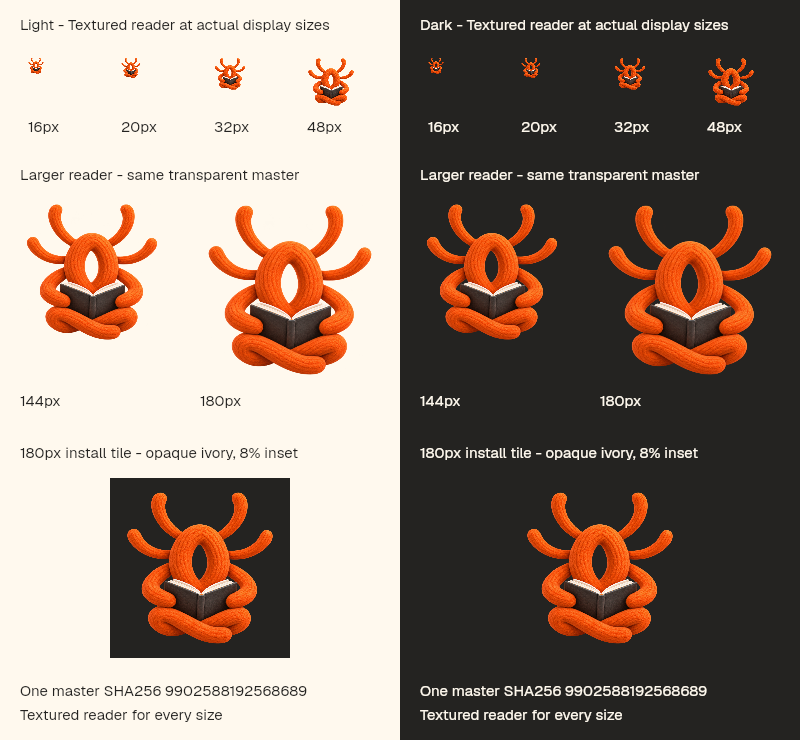
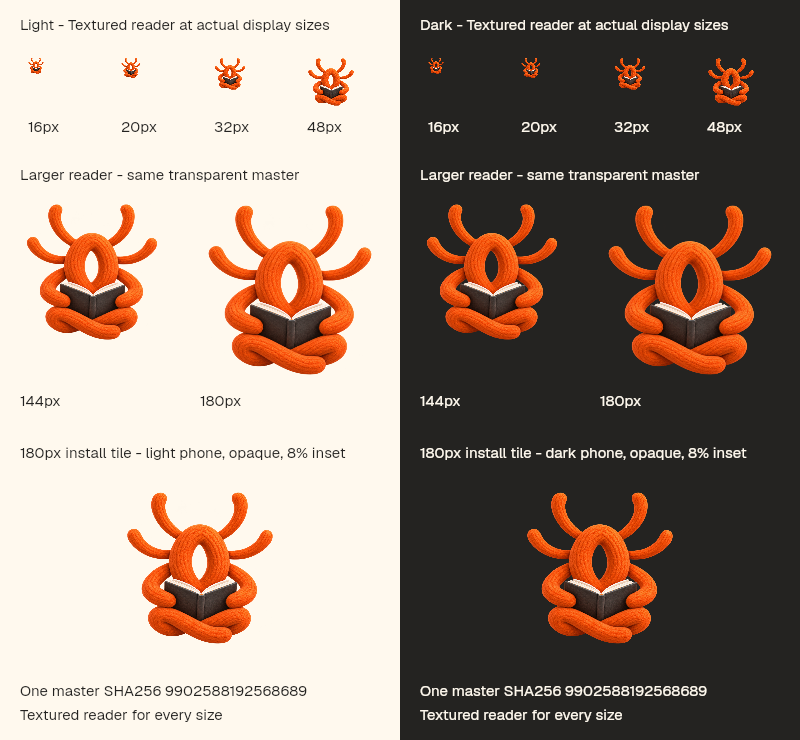
261026i: Sol's code review, and spya-shpsvx/q-q5da5a answered and shipped
Sol fixed the brand proofs, which drew the now-charcoal touch icon on both
sides; each side shows its own tile. q-q5da5a quotes Greg's reply
(spya-e50wvz), status answered; the shpsvx note ends shipped, with how to
re-add the icon to see it.

Changed region(s): [[0.125, 0.5905, 0.4375, 0.9014], [0.6875, 0.5905, 0.9375, 0.6216]]

diff --git a/scripts/generate-brand-assets.ts b/scripts/generate-brand-assets.ts
@@ -123,12 +123,12 @@ async function renderPreview(input: Source, files: Map<string, Buffer>): Promise
   const ctx = canvas.getContext("2d");
   const detail = await proofImage(files, "spideryarn-reader.png");
   const mark = await proofImage(files, "spideryarn-logo.png");
-  const install = await proofImage(files, "apple-touch-icon.png");
   ctx.imageSmoothingQuality = "high";
   ctx.font = "15px SpideryarnBrandPreview";
   for (const [left, background, foreground, label] of [
     [0, LIGHT, DARK, "Light"], [400, DARK, LIGHT, "Dark"],
   ] as const) {
+    const install = await proofImage(files, label === "Light" ? "apple-touch-icon-light.png" : "apple-touch-icon.png");
     ctx.fillStyle = background;
     ctx.fillRect(left, 0, 400, 740);
     ctx.fillStyle = foreground;
@@ -147,7 +147,7 @@ async function renderPreview(input: Source, files: Map<string, Buffer>): Promise
       ctx.drawImage(detail, x, 200, size, size);
       ctx.fillText(`${size}px`, x, 406);
     }
-    ctx.fillText("180px install tile - opaque ivory, 8% inset", left + 20, 458);
+    ctx.fillText(`180px install tile - ${label.toLowerCase()} phone, opaque, 8% inset`, left + 20, 458);
     ctx.imageSmoothingEnabled = false;
     ctx.drawImage(install, left + 110, 478);
     ctx.fillText(`One master SHA256 ${input.hash}`, left + 20, 696);
@@ -160,11 +160,11 @@ async function renderTinyPreview(files: Map<string, Buffer>): Promise<Buffer> {
   const canvas = proofCanvas(920, 740);
   const ctx = canvas.getContext("2d");
   const mark = await proofImage(files, "spideryarn-logo.png");
-  const install = await proofImage(files, "apple-touch-icon.png");
   const favicon16 = await proofImage(files, "favicon-16x16.png");
   for (const [left, background, foreground, label] of [
     [0, LIGHT, DARK, "LIGHT"], [460, DARK, LIGHT, "DARK"],
   ] as const) {
+    const install = await proofImage(files, label === "LIGHT" ? "apple-touch-icon-light.png" : "apple-touch-icon.png");
     ctx.fillStyle = background;
     ctx.fillRect(left, 0, 460, 740);
     ctx.fillStyle = foreground;
@@ -209,6 +209,7 @@ async function renderTinyPreview(files: Map<string, Buffer>): Promise<Buffer> {
 /** Use the committed public files directly: opening or serving this page
  * exercises browser favicon selection rather than drawing a pretend tab. */
 function renderBrowserPreview(): string {
+  const install = (theme: string) => theme === "light" ? "apple-touch-icon-light.png" : "apple-touch-icon.png";
   const sample = (theme: string) => `<section class="${theme}"><h2>${theme} background</h2>
     <p>16 logical pixels, 1× / 2× source selection:</p>
     <img width="16" height="16" src="../../public/favicon-16x16.png" srcset="../../public/favicon-16x16.png 1x, ../../public/favicon-32x32.png 2x" alt="Reader favicon at 16 logical pixels">
@@ -216,7 +217,7 @@ function renderBrowserPreview(): string {
     ${[16, 32, 48].map((size) => `<img width="${size}" height="${size}" src="../../public/favicon-${size}x${size}.png" alt="${size} pixel favicon">`).join(" ")}
     <p>Same reader in the app, at 20, 44 and 128 logical pixels:</p>
     ${[20, 44, 128].map((size) => `<img width="${size}" height="${size}" src="../../public/spideryarn-logo.png" alt="${size} pixel app reader">`).join(" ")}
-    <p>Install tile, 60 logical pixels — 84% artwork fill:</p><img width="60" height="60" src="../../public/apple-touch-icon.png" alt="Install tile"></section>`;
+    <p>Install tile for a ${theme} phone, 60 logical pixels — 84% artwork fill:</p><img width="60" height="60" src="../../public/${install(theme)}" alt="Install tile for a ${theme} phone"></section>`;
   return `<!doctype html>
 <html lang="en"><head><meta charset="utf-8"><meta name="viewport" content="width=device-width,initial-scale=1">
 <title>Spideryarn — selected reader tab preview</title>

diff --git a/assets/brand/browser-preview.html b/assets/brand/browser-preview.html
@@ -13,11 +13,11 @@
     <img width="16" height="16" src="../../public/favicon-16x16.png" alt="16 pixel favicon"> <img width="32" height="32" src="../../public/favicon-32x32.png" alt="32 pixel favicon"> <img width="48" height="48" src="../../public/favicon-48x48.png" alt="48 pixel favicon">
     <p>Same reader in the app, at 20, 44 and 128 logical pixels:</p>
     <img width="20" height="20" src="../../public/spideryarn-logo.png" alt="20 pixel app reader"> <img width="44" height="44" src="../../public/spideryarn-logo.png" alt="44 pixel app reader"> <img width="128" height="128" src="../../public/spideryarn-logo.png" alt="128 pixel app reader">
-    <p>Install tile, 60 logical pixels — 84% artwork fill:</p><img width="60" height="60" src="../../public/apple-touch-icon.png" alt="Install tile"></section><section class="dark"><h2>dark background</h2>
+    <p>Install tile for a light phone, 60 logical pixels — 84% artwork fill:</p><img width="60" height="60" src="../../public/apple-touch-icon-light.png" alt="Install tile for a light phone"></section><section class="dark"><h2>dark background</h2>
     <p>16 logical pixels, 1× / 2× source selection:</p>
     <img width="16" height="16" src="../../public/favicon-16x16.png" srcset="../../public/favicon-16x16.png 1x, ../../public/favicon-32x32.png 2x" alt="Reader favicon at 16 logical pixels">
     <p>Native source samples: 16, 32 and 48 image pixels:</p>
     <img width="16" height="16" src="../../public/favicon-16x16.png" alt="16 pixel favicon"> <img width="32" height="32" src="../../public/favicon-32x32.png" alt="32 pixel favicon"> <img width="48" height="48" src="../../public/favicon-48x48.png" alt="48 pixel favicon">
     <p>Same reader in the app, at 20, 44 and 128 logical pixels:</p>
     <img width="20" height="20" src="../../public/spideryarn-logo.png" alt="20 pixel app reader"> <img width="44" height="44" src="../../public/spideryarn-logo.png" alt="44 pixel app reader"> <img width="128" height="128" src="../../public/spideryarn-logo.png" alt="128 pixel app reader">
-    <p>Install tile, 60 logical pixels — 84% artwork fill:</p><img width="60" height="60" src="../../public/apple-touch-icon.png" alt="Install tile"></section></main></body></html>
+    <p>Install tile for a dark phone, 60 logical pixels — 84% artwork fill:</p><img width="60" height="60" src="../../public/apple-touch-icon.png" alt="Install tile for a dark phone"></section></main></body></html>

diff --git a/src/feedback-endings.generated.ts b/src/feedback-endings.generated.ts
@@ -485,7 +485,7 @@ export const FEEDBACK_NOTE_ENDINGS: Readonly<Record<string, FeedbackEnding>> = {
   "spya-sgf8g6": "shipped",
   "spya-sgfxuv": "shipped",
   "spya-shf45w": "shipped",
-  "spya-shpsvx": "awaiting",
+  "spya-shpsvx": "shipped",
   "spya-skpxw2": "awaiting",
   "spya-skq3fg": "shipped",
   "spya-skqwg8": "shipped",
@@ -858,7 +858,7 @@ export const FEEDBACK_NOTE_COMMENTS: Readonly<Record<string, string>> = {
   "spya-sbj3yk": "Both sentences now say what happened, and arXiv papers find their DOI, so Attention gets its Cited by list. Since 11 October a piece with no DOI is also looked up at OpenAlex by title and authors, strictly checked.",
   "spya-sfpcmm": "On dev. A chat (and Explore) reading another of the reader's conversations now gets each question and answer whole, up to 6,000 characters a turn, rather than cut to 700, and can page back through a long conversation to its first exchange.",
   "spya-shf45w": "On dev: Active days, Reading time and Failed imports columns, and five counts hidden behind Columns. Since your answer, Active days also counts each article opened, from now on.",
-  "spya-shpsvx": "It is the home-screen icon. iOS gives a website's home-screen icon no dark version, so one background has to serve both modes: dark for everyone, or keep ivory? Question q-q5da5a.",
+  "spya-shpsvx": "The home-screen icon now follows your phone's mode when added: charcoal in dark, cream in light, charcoal when unsure. After the next deploy, remove the icon and re-add it from Safari's Share menu to see it.",
   "spya-skpxw2": "Part built: type @ in Chat to bring in one of your articles, so an uploaded file can be brought in once it is an article. Attachments that belong to an article are still a question for you.",
   "spya-skq3fg": "\"Why are you reading this?\" is now at the top and grows; About you is offered if empty; a big green tick and Open at top and bottom say it is done; PDFs show a bar of sections read. Time-left is queued.",
   "spya-srg5fa": "The guide no longer opens a mode by itself: it suggests one with a button you press. Every chat's typing box is bigger and stands out more, and the suggestion buttons sit in the centre.",

diff --git a/tests/brand-assets.test.ts b/tests/brand-assets.test.ts
@@ -412,11 +412,19 @@ describe("brand assets", () => {
       expect(sample.getAttribute("srcset")).toBe("../../public/favicon-16x16.png 1x, ../../public/favicon-32x32.png 2x");
     }
     expect(doc.querySelectorAll("section.light img, section.dark img")).toHaveLength(16);
+    expect(doc.querySelector("section.light img:last-of-type")?.getAttribute("src"))
+      .toBe("../../public/apple-touch-icon-light.png");
+    expect(doc.querySelector("section.dark img:last-of-type")?.getAttribute("src"))
+      .toBe("../../public/apple-touch-icon.png");
     for (const image of doc.querySelectorAll("img")) {
       const relative = image.getAttribute("src");
       expect(relative).toMatch(/^\.\.\/\.\.\/public\/[\w-]+\.png$/);
       await expect(stat(path.join(ROOT, "assets/brand", relative ?? ""))).resolves.toBeDefined();
     }
+    const proof = await pixels(path.join(previewDir, "preview.png"));
+    const rgbaAt = (x: number, y: number) => [...proof.data.slice((y * proof.width + x) * 4, (y * proof.width + x + 1) * 4)];
+    expect(rgbaAt(110, 478)).toEqual([255, 249, 238, 255]);
+    expect(rgbaAt(510, 478)).toEqual([36, 35, 33, 255]);
   });
 
   it("does not create absent public/proof destinations in check mode", async () => {

diff --git a/docs/user-feedback/261026_0248-home-screen-icon-ivory-in-dark-mode.md b/docs/user-feedback/261026_0248-home-screen-icon-ivory-in-dark-mode.md
@@ -1,7 +1,7 @@
 ---
 reports: spya-shpsvx
-ending: awaiting
-comment: It is the home-screen icon. iOS gives a website's home-screen icon no dark version, so one background has to serve both modes: dark for everyone, or keep ivory? Question q-q5da5a.
+ending: shipped
+comment: The home-screen icon now follows your phone's mode when added: charcoal in dark, cream in light, charcoal when unsure. After the next deploy, remove the icon and re-add it from Safari's Share menu to see it.
 ---
 # The home-screen icon is ivory in dark mode
 
@@ -11,12 +11,16 @@ Report `spya-shpsvx` (#710, SPIDERYARN-READING2-P9), a problem from Greg on `/` 
 
 > I'm in dark mode on my iPhone, and for some reason the new Spideryarn icon still has a white background.
 
-**Awaiting Greg.** The white is almost certainly the home-screen tile, `apple-touch-icon.png`,
-the only icon we ship opaque (ivory, by design); the favicons and the in-page mark are transparent,
-checked on the files. That is inferred, not confirmed on his phone, and the question asks him to
-say if he meant somewhere else. iOS documents no dark variant for a web clip, so the background is
-a product choice: question `q-q5da5a`, offering dark for everyone (recommended), the mode at the
-moment the clip is added, or ivory as now. Sol reviewed the research and the question
+**Shipped** on `dev` (out with the next deploy), after Greg answered `q-q5da5a`
+(`spya-e50wvz`): *"Maybe we can try and offer a switch between light and dark mode, but if in
+doubt, default to dark mode for the icon"*. The touch icon is charcoal by default and an inline
+script swaps in a cream one when the phone is in light mode; the Android icons and the email logo,
+which cannot follow a mode, are charcoal —
+[261026i](../plans/261026i-home-screen-icon-follows-the-phone-mode-dark-by-default.md). Not checked
+on a real phone: Greg's remove-and-re-add is the test, in both modes. The white he saw was
+inferred to be the home-screen tile from the files and he did not say otherwise.
+
+The first pass (below) asked rather than built; Sol reviewed it
 ([its findings](../plans/261026e-home-screen-icon-dark-mode-review-sol.md)).
 
 - **The research and its sources** are in
@@ -24,9 +28,8 @@ moment the clip is added, or ivory as now. Sol reviewed the research and the que
 - **No cached old paths to clear.** No icon file has been renamed or deleted under `public/`, and
   production serves them with `max-age=0, must-revalidate` and an etag. What caches is iOS's
   snapshot of an installed clip, which changes only when the clip is removed and re-added.
-- **Built: nothing yet.** The same tile is the Android icon and the logo in the (dark) emails
-  (`src/email-frame.ts`), so a choice of dark changes those too unless split. The backgrounds are
-  the `background` column of `BRAND_OUTPUTS` in
-  [generate-brand-assets.ts](../../scripts/generate-brand-assets.ts), then `npm run brand:update`
-  and `brand:check`, and a `?v=` on the `apple-touch-icon` link in `index.html` for Safari's own
-  caches.
+- **Built, second pass**: the `background` column of `BRAND_OUTPUTS` in
+  [generate-brand-assets.ts](../../scripts/generate-brand-assets.ts) (touch and Android tiles
+  charcoal, a new cream `apple-touch-icon-light.png`), `touch-icon-boot` and a `?v=2` in
+  `index.html`, `tests/touch-icon.test.ts`. The emails name the same file, so their logo turned
+  charcoal with no change of their own.

diff --git a/docs/user-feedback/questions/q-q5da5a.md b/docs/user-feedback/questions/q-q5da5a.md
@@ -1,10 +1,11 @@
 ---
 id: q-q5da5a
 report: spya-shpsvx
-status: open
+status: answered
 asked: 2026-10-26
 title: Should the iPhone home-screen icon have a dark background?
-refs: SPIDERYARN-READING2-P9 · docs/project/main-icon.md § Dark mode on an iPhone · docs/user-feedback/261026_0248-home-screen-icon-ivory-in-dark-mode.md · public/app-icon-dark-1024.png · src/email-frame.ts
+refs: SPIDERYARN-READING2-P9 · docs/project/main-icon.md § Dark mode on an iPhone · docs/user-feedback/261026_0248-home-screen-icon-ivory-in-dark-mode.md · public/app-icon-dark-1024.png · src/email-frame.ts · docs/plans/261026i-home-screen-icon-follows-the-phone-mode-dark-by-default.md · qi-8yqe3ztx
+acted: spya-e50wvz
 ---
 The white is almost certainly the home-screen icon's cream square, and iOS gives a website's home-screen icon no proper dark version. Which should it be?
 
@@ -27,3 +28,9 @@ Why it does not follow dark mode. Native apps can ship separate dark, tinted and
 What each choice touches. The same picture is the Android home-screen icon and the small logo in our emails; A would make those dark too, which suits the emails' dark header. B keeps them cream.
 
 After you choose. The agent who picks this up makes the change, and it goes out in the next deploy. Your existing home-screen icon will not change by itself, because iOS keeps the picture it took. To see the new one: press and hold the Spideryarn icon and remove it, then in Safari open spideryarn.com, tap Share, then Add to Home Screen. Check it in both light and dark mode.
+
+Greg's reply, 2026-10-26 (spya-e50wvz, in the Feedback dialog), read as B with dark whenever in doubt:
+
+> Maybe we can try and offer a switch between light and dark mode, but if in doubt, default to dark mode for the icon
+
+Acted on, 2026-10-26 (queue item qi-8yqe3ztx): done on dev, out with the next deploy. The switch is your phone's own light or dark setting, not a new Spideryarn setting: when you add Spideryarn to the home screen with the phone in dark mode you get a charcoal icon, and in light mode the cream one. Wherever it cannot tell, it is charcoal: the Android icon, and the small logo in our emails (which sits on their dark header). The icon on your home screen now will not change by itself. To see the new one: press and hold it, remove it, then in Safari open spideryarn.com, tap Share, then Add to Home Screen. To check the other mode, switch the phone, remove and add it again. Not yet tried on a real phone: WebKit's own code shows the page's choice is read, but Safari's last step is closed, so your re-add is the test; and iOS 26's tinted or clear home-screen styles may still change either picture. The plan: docs/plans/261026i-home-screen-icon-follows-the-phone-mode-dark-by-default.md.

diff --git a/docs/plans/261026i-home-screen-icon-code-review-sol.md b/docs/plans/261026i-home-screen-icon-code-review-sol.md
@@ -1,0 +1,15 @@
+1. **Low — fixed:** brand previews still showed the dark tile on both themes and called it “opaque ivory.” Updated [generate-brand-assets.ts](/var/tmp/spideryarn-worktrees/fbshpsvx-icon-dark-by-default/scripts/generate-brand-assets.ts:121), regenerated all three previews, and added assertions in [brand-assets.test.ts](/var/tmp/spideryarn-worktrees/fbshpsvx-icon-dark-by-default/tests/brand-assets.test.ts:414).
+
+2. **No touch-script defect found:** the shipped script is isolated, directly follows its `<head>` link, catches `matchMedia` failure, defaults dark, and correctly uses `addListener` when `addEventListener` is unavailable. It does not share state with the later boot scripts. There is no application CSP hash registry; the shell SHA-256 covers the complete built document automatically.
+
+3. **No test defect found:** [touch-icon.test.ts](/var/tmp/spideryarn-worktrees/fbshpsvx-icon-dark-by-default/tests/touch-icon.test.ts:14) executes the exact shipped script. Removing it fails the presence assertion; reversing the condition fails the light/dark assertions.
+
+4. **No further consumer or documentation disagreement found:** Vercel serves both icons as ordinary public files; crawler allowlists intentionally need only the dark default; Android/email use dark intentionally; extension and export behavior remains separate. `main-icon.md` matches the implementation.
+
+Checks:
+
+- Requested Vitest set: **4 files, 219 tests passed**
+- Brand asset freshness: passed
+- Typecheck: passed, 4,039 files covered
+- Full `npm test`: blocked before collection because local Postgres/Docker is unavailable
+- No commit made.

diff --git a/docs/plans/261026i-home-screen-icon-follows-the-phone-mode-dark-by-default.md b/docs/plans/261026i-home-screen-icon-follows-the-phone-mode-dark-by-default.md
@@ -89,3 +89,11 @@ never changes by itself — iOS keeps the picture it took.
   the spec (wording and test fixed, and a `try` around `matchMedia`), the listener's effect at
   share-sheet time marked unverified, the cache claim softened, robots and the extension tile
   rightly left alone, the brand test's lists all updated.
+- **Code, GPT Sol** ([findings](261026i-home-screen-icon-code-review-sol.md)): one fix, made by
+  Sol — the brand proofs drew the (now charcoal) touch icon on both sides and called it ivory;
+  each side now shows its own tile. No defect in the script, its test, or the other consumers.
+
+## Result
+
+Landed on `dev`. Full `npm test` on 2026-10-26: one red, this work's own note comment over the
+240-character limit, fixed; typecheck and `brand:check` green. Not checked on a phone.
